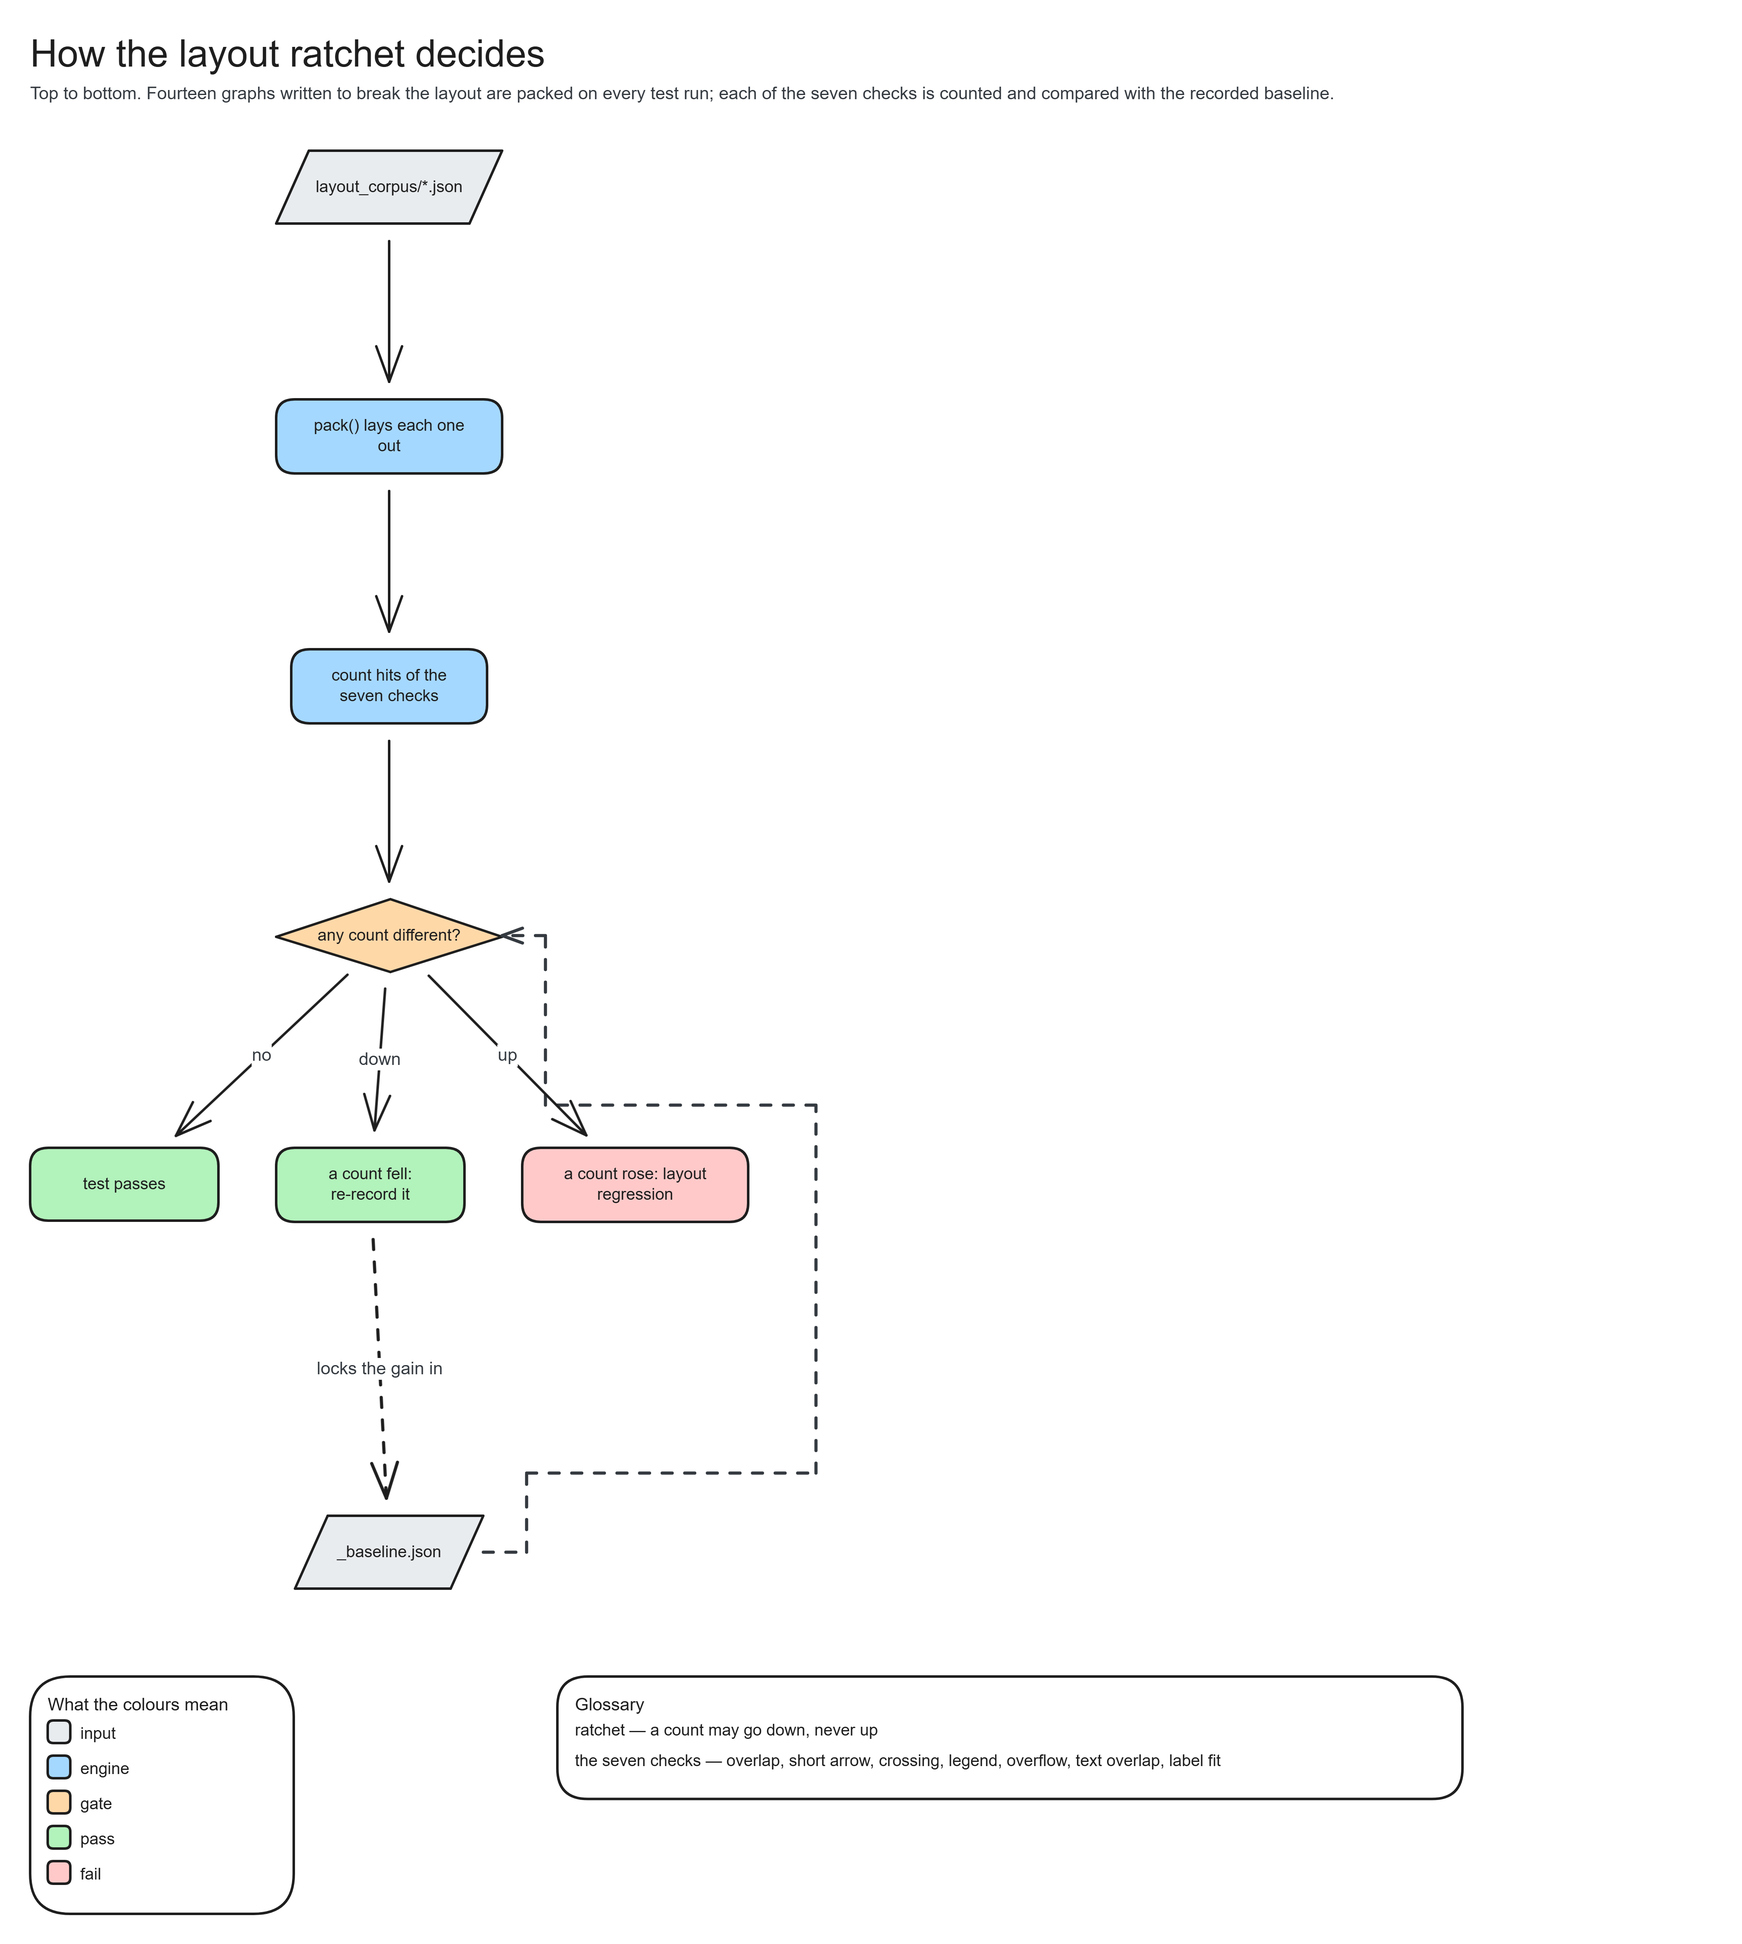
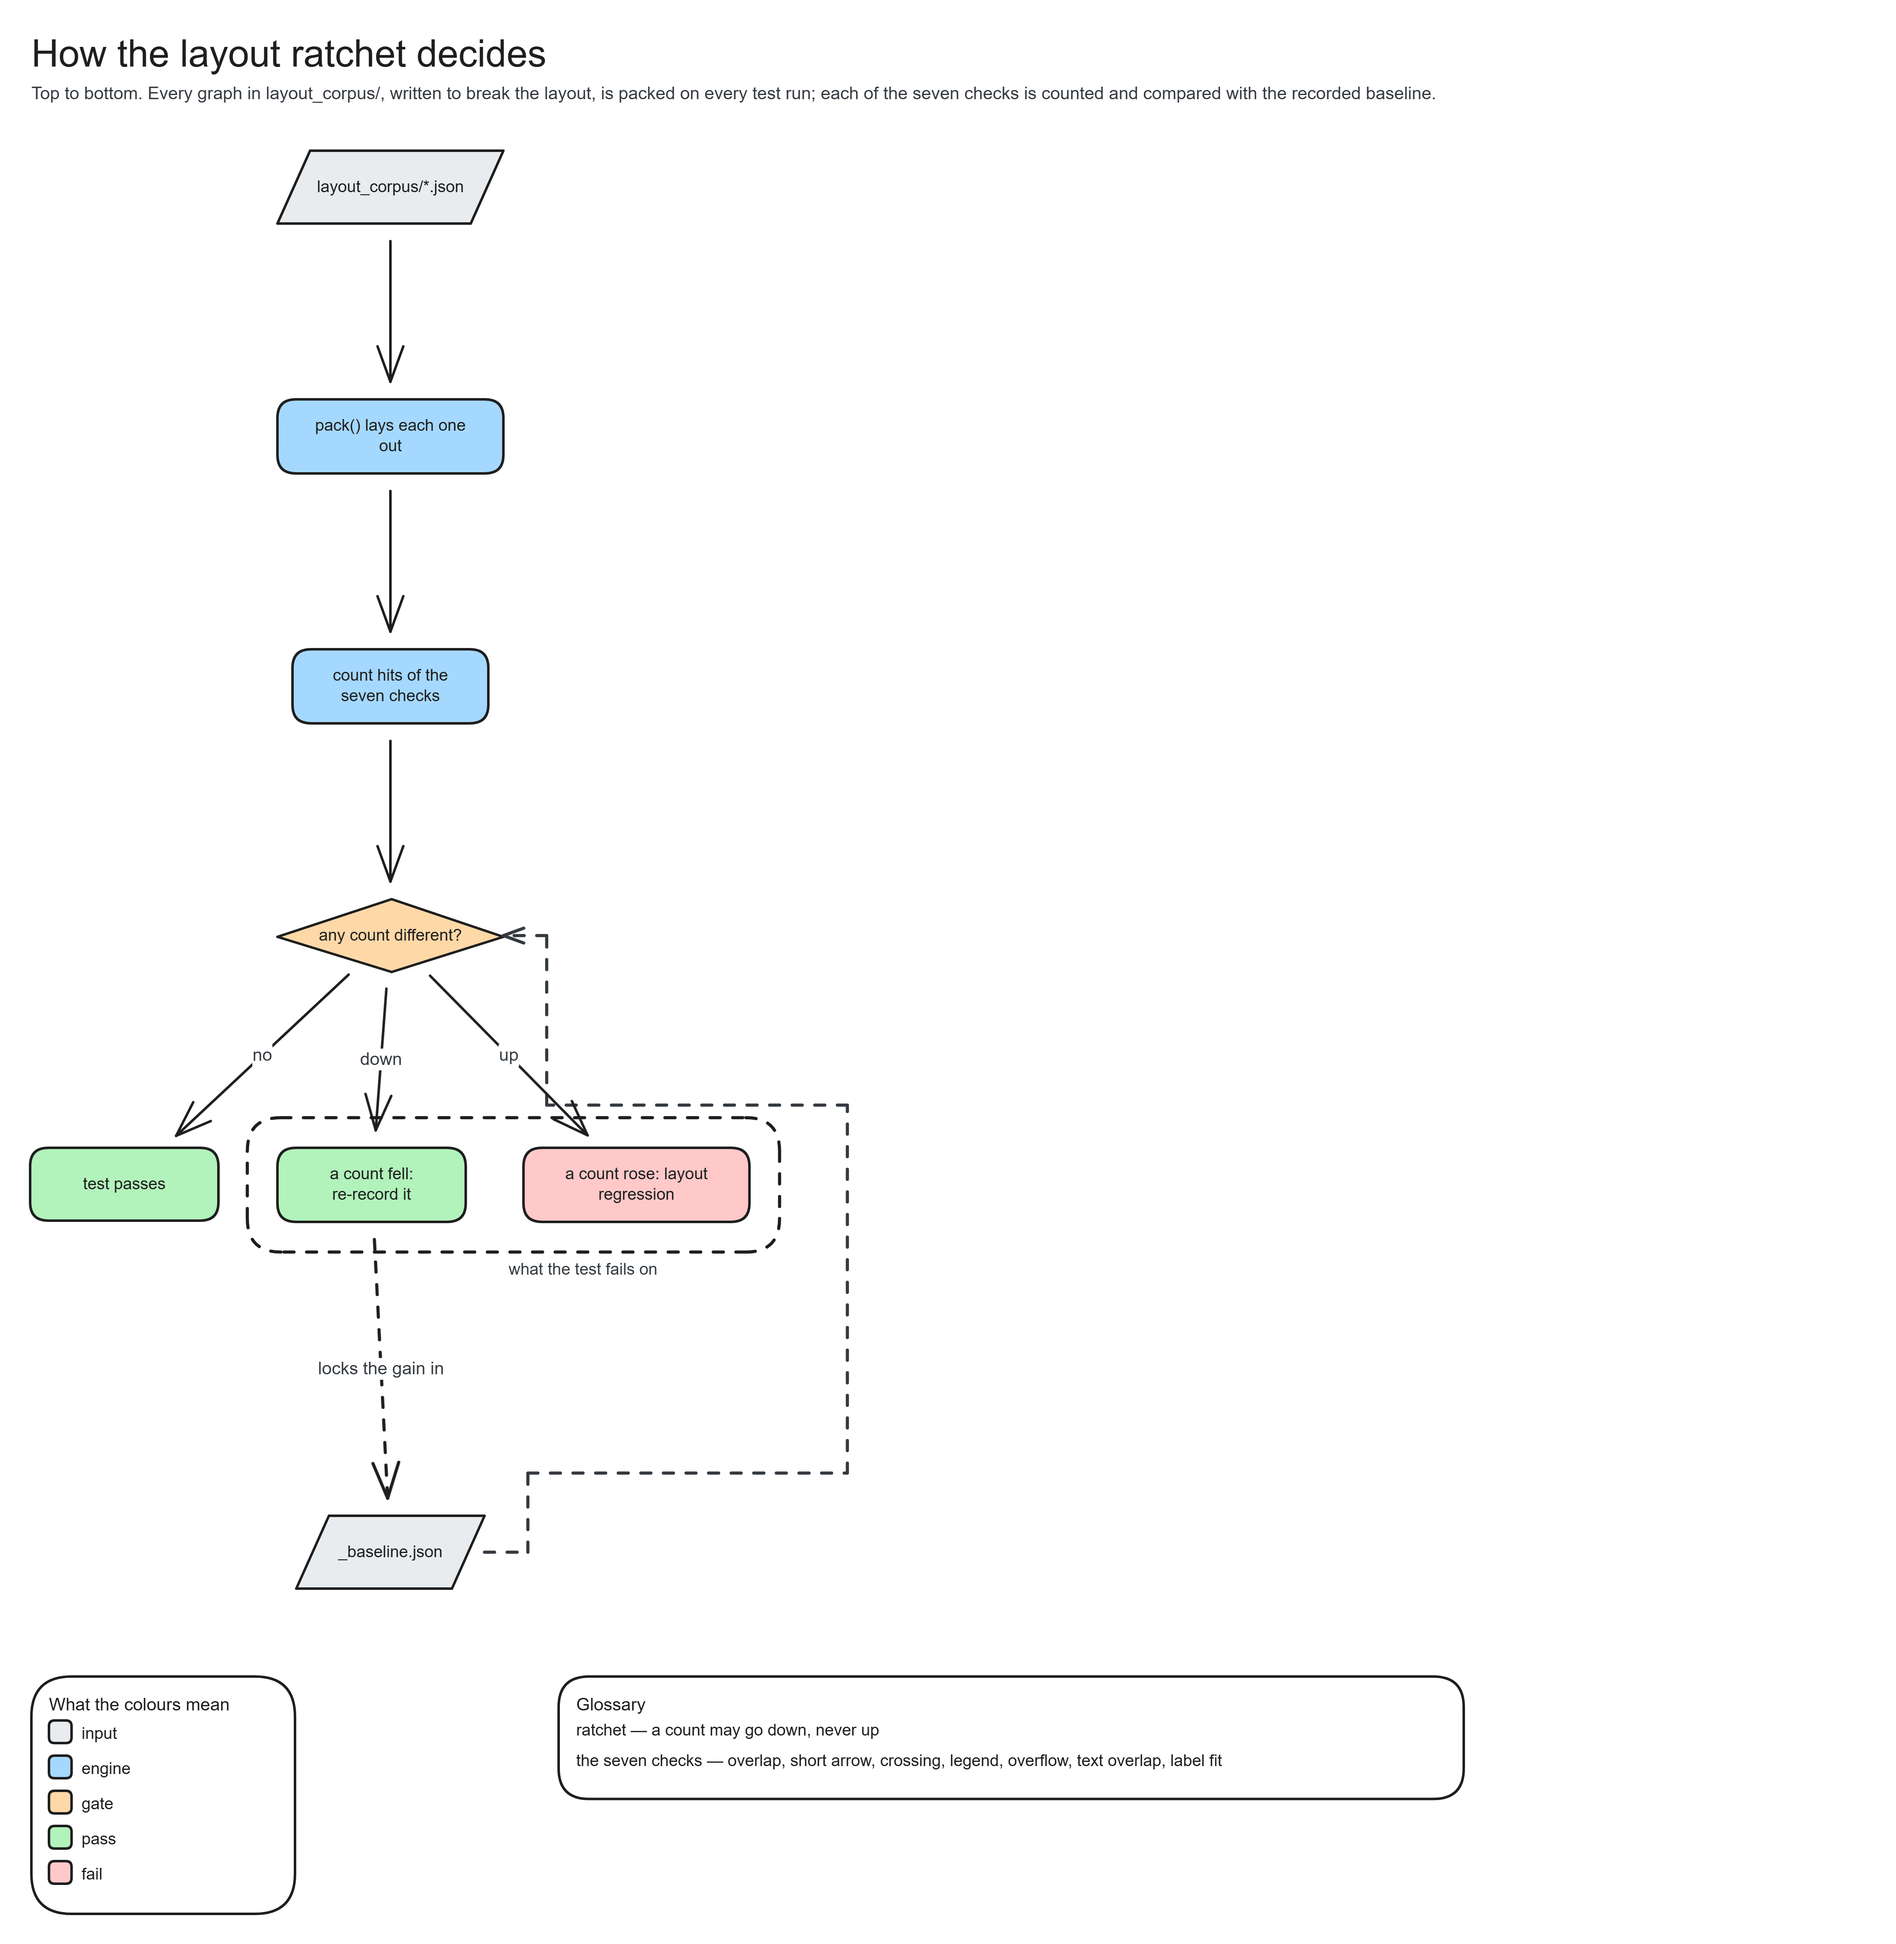
Put the groups back in the docs diagrams, and fix the example count
mermaid_graph.json and ratchet_graph.json had dropped their groups to
dodge the frame bug; with it fixed they carry them again. The PNGs are
re-exported, scene_from_json.png included since grouped lanes moved.
The README counted four examples; there are six.

diff --git a/README.md b/README.md
@@ -150,7 +150,7 @@ plugin/skills/excalidraw-diagram/
   references/builder_api.md       every call, the graph.json schema
   references/worked_examples.md   the repo-poster recipe and ❌ → ✅ variants
   references/excalidraw_format.md the file-format notes the builder encodes
-  examples/make_*.py        four worked generators, each runnable on its own
+  examples/make_*.py        six worked generators, each runnable on its own
 plugin/.mcp.json            registers the MCP server on install
 requirements/               the skill's requirement corpus, checked in CI
 docs/make_*.py, *_graph.json + *.png  what the pictures in this README are built from
